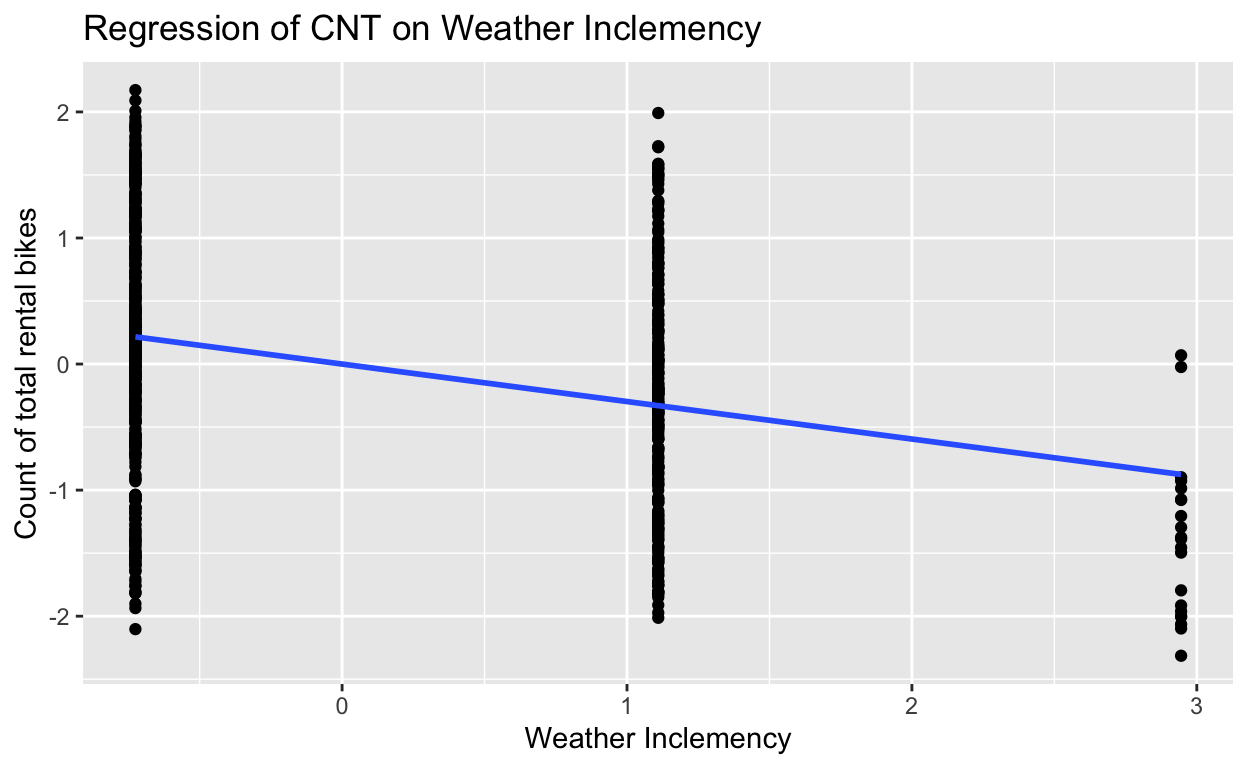
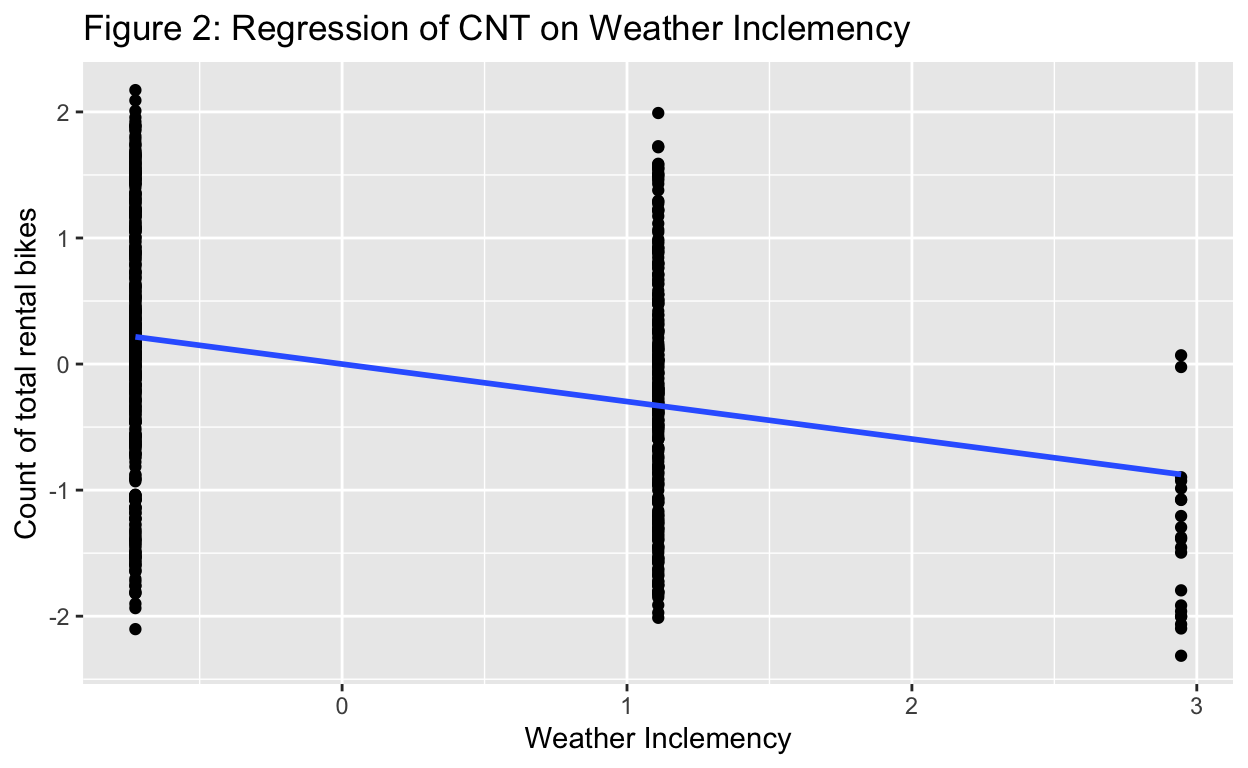
web

Changed region(s): [[0.0625, 0.0, 0.75, 0.0625]]

diff --git a/index.html b/index.html
@@ -1532,10 +1532,10 @@ code span.wa { color: #5e5e5e; font-style: italic; } /* Warning */
 <li>briefly describe why it is interesting</li>
 </ul>
 <h2 id="data">Data</h2>
-<h3 id="describle-data">Describle data</h3>
 <ul>
 <li>how is data collected</li>
 <li>type of research design</li>
+<li>a plot that summarizes the dependent variable and interpretaton (figure 1)</li>
 </ul>
 <table>
 <colgroup>
@@ -1587,7 +1587,6 @@ code span.wa { color: #5e5e5e; font-style: italic; } /* Warning */
 </tr>
 </tbody>
 </table>
-<h3 id="a-plot-that-summarizes-the-dependent-variable">a plot that summarizes the dependent variable</h3>
 <div class="layout-chunk" data-layout="l-body">
 <div class="sourceCode">
 <pre class="sourceCode r"><code class="sourceCode r"><span><span class='va'>df</span> <span class='op'>&lt;-</span> <span class='fu'><a href='https://rdrr.io/r/utils/read.table.html'>read.csv</a></span><span class='op'>(</span><span class='st'>"day.csv"</span><span class='op'>)</span></span>
@@ -1596,15 +1595,20 @@ code span.wa { color: #5e5e5e; font-style: italic; } /* Warning */
 <span><span class='va'>dist_cnt</span> <span class='op'>&lt;-</span> <span class='va'>df</span> <span class='op'>|&gt;</span></span>
 <span>  <span class='fu'><a href='https://ggplot2.tidyverse.org/reference/ggplot.html'>ggplot</a></span><span class='op'>(</span><span class='fu'><a href='https://ggplot2.tidyverse.org/reference/aes.html'>aes</a></span><span class='op'>(</span>x <span class='op'>=</span> <span class='va'>cnt</span><span class='op'>)</span><span class='op'>)</span> <span class='op'>+</span></span>
 <span>  <span class='fu'><a href='https://ggplot2.tidyverse.org/reference/geom_histogram.html'>geom_histogram</a></span><span class='op'>(</span><span class='op'>)</span> <span class='op'>+</span></span>
-<span>  <span class='fu'><a href='https://ggplot2.tidyverse.org/reference/labs.html'>labs</a></span><span class='op'>(</span>title <span class='op'>=</span> <span class='st'>"Distribution of Count of Total Rental Bikes"</span>,</span>
+<span>  <span class='fu'><a href='https://ggplot2.tidyverse.org/reference/labs.html'>labs</a></span><span class='op'>(</span>title <span class='op'>=</span> <span class='st'>"Figure 1: Distribution of Count of Total Rental Bikes"</span>,</span>
 <span>       x <span class='op'>=</span> <span class='st'>"Count of total rental bikes"</span><span class='op'>)</span></span>
 <span><span class='va'>dist_cnt</span></span></code></pre>
 </div>
 <p><img src="index_files/figure-html5/unnamed-chunk-2-1.png" width="624" /></p>
 </div>
 <h2 id="result">Result</h2>
-<h3 id="presentation-of-regression">Presentation of Regression</h3>
-<p>a summary and discussion of results in substantive context</p>
+<ul>
+<li>figure 2: one bivariate regression (showing the relationship between just the predictor you are most interested in and your outcome)</li>
+<li>one multivariate regression (where you control for a couple of confounders)</li>
+<li>separate plots of the main relationship of interest (figure 3, 4, 5, 6)</li>
+<li>a summary and discussion of results in substantive context</li>
+<li>interpret (in plain English) the main coefficient of interest in your regression, comment on the statistical significance of the estimated coefficient, and say whether or not you believe the coefficient to represent a causal effect</li>
+</ul>
 <div class="layout-chunk" data-layout="l-body">
 <div class="sourceCode">
 <pre class="sourceCode r"><code class="sourceCode r"><span><span class='va'>df</span> <span class='op'>&lt;-</span> <span class='fu'><a href='https://rdrr.io/r/base/data.frame.html'>data.frame</a></span><span class='op'>(</span><span class='fu'><a href='https://rdrr.io/r/base/scale.html'>scale</a></span><span class='op'>(</span><span class='va'>df</span><span class='op'>)</span><span class='op'>)</span></span>
@@ -1634,7 +1638,7 @@ F-statistic: 70.73 on 1 and 729 DF,  p-value: &lt; 2.2e-16</code></pre>
 <span>  <span class='fu'><a href='https://ggplot2.tidyverse.org/reference/ggplot.html'>ggplot</a></span><span class='op'>(</span><span class='fu'><a href='https://ggplot2.tidyverse.org/reference/aes.html'>aes</a></span><span class='op'>(</span>x <span class='op'>=</span> <span class='va'>weathersit</span>, y <span class='op'>=</span> <span class='va'>cnt</span><span class='op'>)</span><span class='op'>)</span> <span class='op'>+</span></span>
 <span>  <span class='fu'><a href='https://ggplot2.tidyverse.org/reference/geom_point.html'>geom_point</a></span><span class='op'>(</span><span class='op'>)</span> <span class='op'>+</span></span>
 <span>  <span class='fu'><a href='https://ggplot2.tidyverse.org/reference/geom_smooth.html'>geom_smooth</a></span><span class='op'>(</span>method <span class='op'>=</span> <span class='st'>"lm"</span>, se <span class='op'>=</span> <span class='cn'>FALSE</span><span class='op'>)</span> <span class='op'>+</span></span>
-<span>  <span class='fu'><a href='https://ggplot2.tidyverse.org/reference/labs.html'>labs</a></span><span class='op'>(</span>title <span class='op'>=</span> <span class='st'>"Regression of CNT on Weather Inclemency"</span>,</span>
+<span>  <span class='fu'><a href='https://ggplot2.tidyverse.org/reference/labs.html'>labs</a></span><span class='op'>(</span>title <span class='op'>=</span> <span class='st'>"Figure 2: Regression of CNT on Weather Inclemency"</span>,</span>
 <span>       x <span class='op'>=</span> <span class='st'>"Weather Inclemency"</span>,</span>
 <span>       y <span class='op'>=</span> <span class='st'>"Count of total rental bikes"</span><span class='op'>)</span></span></code></pre>
 </div>
@@ -1670,15 +1674,13 @@ Residual standard error: 0.7273 on 724 degrees of freedom
 Multiple R-squared:  0.4754,    Adjusted R-squared:  0.4711 
 F-statistic: 109.4 on 6 and 724 DF,  p-value: &lt; 2.2e-16</code></pre>
 </div>
-<h3 id="separate-plots-of-the-main-relationship-of-interest">separate plots of the main relationship of interest</h3>
-<p>interpret (in plain English) the main coefficient of interest in your regression, comment on the statistical significance of the estimated coefficient, and say whether or not you believe the coefficient to represent a causal effect</p>
 <div class="layout-chunk" data-layout="l-body">
 <div class="sourceCode">
 <pre class="sourceCode r"><code class="sourceCode r"><span><span class='va'>df</span> <span class='op'>|&gt;</span></span>
 <span>  <span class='fu'><a href='https://ggplot2.tidyverse.org/reference/ggplot.html'>ggplot</a></span><span class='op'>(</span><span class='fu'><a href='https://ggplot2.tidyverse.org/reference/aes.html'>aes</a></span><span class='op'>(</span>x <span class='op'>=</span> <span class='va'>weathersit</span>, y <span class='op'>=</span> <span class='va'>cnt</span><span class='op'>)</span><span class='op'>)</span> <span class='op'>+</span></span>
 <span>  <span class='fu'><a href='https://ggplot2.tidyverse.org/reference/geom_point.html'>geom_point</a></span><span class='op'>(</span><span class='op'>)</span> <span class='op'>+</span></span>
 <span>  <span class='fu'><a href='https://ggplot2.tidyverse.org/reference/geom_smooth.html'>geom_smooth</a></span><span class='op'>(</span>method <span class='op'>=</span> <span class='st'>"lm"</span>, se <span class='op'>=</span> <span class='cn'>FALSE</span><span class='op'>)</span> <span class='op'>+</span></span>
-<span>  <span class='fu'><a href='https://ggplot2.tidyverse.org/reference/labs.html'>labs</a></span><span class='op'>(</span>title <span class='op'>=</span> <span class='st'>"Regression of CNT on Weather Inclemency"</span>,</span>
+<span>  <span class='fu'><a href='https://ggplot2.tidyverse.org/reference/labs.html'>labs</a></span><span class='op'>(</span>title <span class='op'>=</span> <span class='st'>"Figure 3: Regression of CNT on Weather Inclemency"</span>,</span>
 <span>       x <span class='op'>=</span> <span class='st'>"Weather Inclemency"</span>,</span>
 <span>       y <span class='op'>=</span> <span class='st'>"Count of total rental bikes"</span><span class='op'>)</span></span></code></pre>
 </div>
@@ -1688,7 +1690,7 @@ F-statistic: 109.4 on 6 and 724 DF,  p-value: &lt; 2.2e-16</code></pre>
 <span>  <span class='fu'><a href='https://ggplot2.tidyverse.org/reference/ggplot.html'>ggplot</a></span><span class='op'>(</span><span class='fu'><a href='https://ggplot2.tidyverse.org/reference/aes.html'>aes</a></span><span class='op'>(</span>x <span class='op'>=</span> <span class='va'>atemp</span>, y <span class='op'>=</span> <span class='va'>cnt</span><span class='op'>)</span><span class='op'>)</span> <span class='op'>+</span></span>
 <span>  <span class='fu'><a href='https://ggplot2.tidyverse.org/reference/geom_point.html'>geom_point</a></span><span class='op'>(</span><span class='op'>)</span> <span class='op'>+</span></span>
 <span>  <span class='fu'><a href='https://ggplot2.tidyverse.org/reference/geom_smooth.html'>geom_smooth</a></span><span class='op'>(</span>method <span class='op'>=</span> <span class='st'>"lm"</span>, se <span class='op'>=</span> <span class='cn'>FALSE</span><span class='op'>)</span> <span class='op'>+</span></span>
-<span>  <span class='fu'><a href='https://ggplot2.tidyverse.org/reference/labs.html'>labs</a></span><span class='op'>(</span>title <span class='op'>=</span> <span class='st'>"Regression of CNT on Feeling Temperature"</span>,</span>
+<span>  <span class='fu'><a href='https://ggplot2.tidyverse.org/reference/labs.html'>labs</a></span><span class='op'>(</span>title <span class='op'>=</span> <span class='st'>"Figure 4: Regression of CNT on Feeling Temperature"</span>,</span>
 <span>       x <span class='op'>=</span> <span class='st'>"Normalized feeling temperature (Celsius)"</span>,</span>
 <span>       y <span class='op'>=</span> <span class='st'>"Count of total rental bikes"</span><span class='op'>)</span></span></code></pre>
 </div>
@@ -1698,7 +1700,7 @@ F-statistic: 109.4 on 6 and 724 DF,  p-value: &lt; 2.2e-16</code></pre>
 <span>  <span class='fu'><a href='https://ggplot2.tidyverse.org/reference/ggplot.html'>ggplot</a></span><span class='op'>(</span><span class='fu'><a href='https://ggplot2.tidyverse.org/reference/aes.html'>aes</a></span><span class='op'>(</span>x <span class='op'>=</span> <span class='va'>hum</span>, y <span class='op'>=</span> <span class='va'>cnt</span><span class='op'>)</span><span class='op'>)</span> <span class='op'>+</span></span>
 <span>  <span class='fu'><a href='https://ggplot2.tidyverse.org/reference/geom_point.html'>geom_point</a></span><span class='op'>(</span><span class='op'>)</span> <span class='op'>+</span></span>
 <span>  <span class='fu'><a href='https://ggplot2.tidyverse.org/reference/geom_smooth.html'>geom_smooth</a></span><span class='op'>(</span>method <span class='op'>=</span> <span class='st'>"lm"</span>, se <span class='op'>=</span> <span class='cn'>FALSE</span><span class='op'>)</span> <span class='op'>+</span></span>
-<span>  <span class='fu'><a href='https://ggplot2.tidyverse.org/reference/labs.html'>labs</a></span><span class='op'>(</span>title <span class='op'>=</span> <span class='st'>"Regression of CNT on Humidity"</span>,</span>
+<span>  <span class='fu'><a href='https://ggplot2.tidyverse.org/reference/labs.html'>labs</a></span><span class='op'>(</span>title <span class='op'>=</span> <span class='st'>"Figure 5: Regression of CNT on Humidity"</span>,</span>
 <span>       x <span class='op'>=</span> <span class='st'>"Normalized Humidity"</span>,</span>
 <span>       y <span class='op'>=</span> <span class='st'>"Count of total rental bikes"</span><span class='op'>)</span></span></code></pre>
 </div>
@@ -1708,7 +1710,7 @@ F-statistic: 109.4 on 6 and 724 DF,  p-value: &lt; 2.2e-16</code></pre>
 <span>  <span class='fu'><a href='https://ggplot2.tidyverse.org/reference/ggplot.html'>ggplot</a></span><span class='op'>(</span><span class='fu'><a href='https://ggplot2.tidyverse.org/reference/aes.html'>aes</a></span><span class='op'>(</span>x <span class='op'>=</span> <span class='va'>windspeed</span>, y <span class='op'>=</span> <span class='va'>cnt</span><span class='op'>)</span><span class='op'>)</span> <span class='op'>+</span></span>
 <span>  <span class='fu'><a href='https://ggplot2.tidyverse.org/reference/geom_point.html'>geom_point</a></span><span class='op'>(</span><span class='op'>)</span> <span class='op'>+</span></span>
 <span>  <span class='fu'><a href='https://ggplot2.tidyverse.org/reference/geom_smooth.html'>geom_smooth</a></span><span class='op'>(</span>method <span class='op'>=</span> <span class='st'>"lm"</span>, se <span class='op'>=</span> <span class='cn'>FALSE</span><span class='op'>)</span> <span class='op'>+</span></span>
-<span>  <span class='fu'><a href='https://ggplot2.tidyverse.org/reference/labs.html'>labs</a></span><span class='op'>(</span>title <span class='op'>=</span> <span class='st'>"Regression of CNT on Wind Speed"</span>,</span>
+<span>  <span class='fu'><a href='https://ggplot2.tidyverse.org/reference/labs.html'>labs</a></span><span class='op'>(</span>title <span class='op'>=</span> <span class='st'>"Figure 6: Regression of CNT on Wind Speed"</span>,</span>
 <span>       x <span class='op'>=</span> <span class='st'>"Normalized Wind Speed"</span>,</span>
 <span>       y <span class='op'>=</span> <span class='st'>"Count of total rental bikes"</span><span class='op'>)</span></span></code></pre>
 </div>
